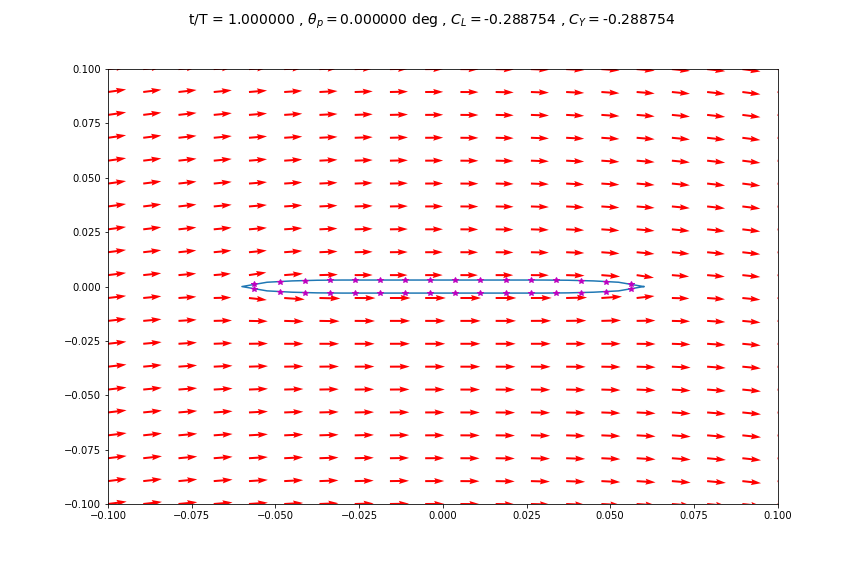
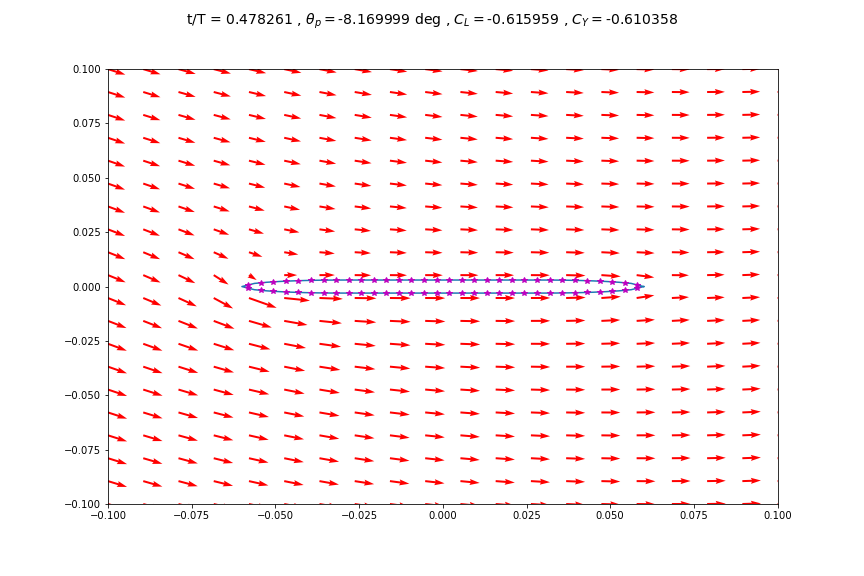
No real changes
see title

diff --git a/Unsteady Attached Flow plate.py b/Unsteady Attached Flow plate.py
@@ -17,7 +17,7 @@ chord=.12
 thickness=.006
 minRad=thickness/2
 majRad=chord/4
-numPanels=32
+numPanels=64
 xp=np.zeros((numPanels+1,1))
 yp=np.zeros((numPanels+1,1))
 
@@ -52,12 +52,12 @@ for i in range(numPanels):
     yc[i]=(yp[i]+yp[i+1])/2
 
 # time frames, panel positions, collocation positions, induced freestream velocities
-numFrames=12
+numFrames=24
 tEnd=.5
 tInterval=np.linspace(0,tEnd,numFrames)
 f=2
 omega=2*np.pi*f
-h0=.1
+h0=.0375
 theta0=60*np.pi/180
 h_t=h0*np.cos(omega*tInterval)
 h_t_dot=-h0*omega*np.sin(omega*tInterval)
@@ -158,11 +158,14 @@ CYBernSto=np.zeros((numFrames,1))
 xSto=np.zeros((numPanels+1,numFrames))
 momSto=np.zeros((numFrames,1))
 CPSto=np.zeros((numPanels//2,numFrames))
+AoASto=np.zeros((numFrames,1))
 
 # panel method for each snap shot in time interval
 for t in range(numFrames):     
     # induced velocity and AoA at collocation point
     AoA=theta_t[t]-np.arctan2(h_t_dot[t]-xc*theta_t_dot[t]*np.cos(theta_t[t]),Uinf+theta_t_dot[t]*xc*np.sin(theta_t[t]))#!!!!!!!!!!!!!!
+#    AoA=theta_t[t]+np.arctan2((Uinf+theta_t_dot[t]*xc*np.sin(theta_t[t]))*np.sin(theta_t[t])+(-h_t_dot[t]+theta_t_dot[t]*xc*np.cos(theta_t[t]))*np.cos(theta_t[t]),\
+#               (Uinf+theta_t_dot[t]*xc*np.sin(theta_t[t]))*np.cos(theta_t[t])+(-h_t_dot[t]+theta_t_dot[t]*xc*np.cos(theta_t[t]))*-np.sin(theta_t[t]))
     normU=Uinf*np.sin(AoA-theta)
     tangU=Uinf*np.cos(AoA-theta)
     
@@ -225,11 +228,20 @@ for t in range(numFrames):
     # save data
     tangVelSto[:,t]=tangVelFoil[:,0]
     ClKuttaSto[t]=Cl_kutta
-    CYKuttaSto[t]=Cl_kutta*np.cos(np.average(AoA))
+    CYKuttaSto[t]=CY_kutta
     ClBernSto[t]=Cl_bern
-    CYBernSto[t]=Cl_bern*np.cos(np.average(AoA))
+    CYBernSto[t]=CY_bern
     xSto[:,t]=x[:,0]
     momSto[t]=momentBern
     CPSto[:,t]=CP[:,1]
+    AoASto[t]=np.average(AoA)
 
-plt.plot(tInterval,CYKuttaSto)
+# plot pressure coefficient
+fig2=plt.figure(figsize=(12,8))
+fig2.add_subplot(111)
+plt.plot(tInterval/tInterval[-1],CYKuttaSto)
+plt.plot(tInterval/tInterval[-1],h_t/h0)
+plt.legend([r'$C_Y$',r'$h/h_0$'],loc='lower right',fontsize=14)
+plt.xlabel('t/T',fontsize=18)
+plt.ylabel(r'$C_Y$',fontsize=18)
+plt.savefig('quasi_steady.png')

diff --git a/symmetric joukowski.py b/symmetric joukowski.py
@@ -9,14 +9,14 @@ import matplotlib.pyplot as plt
 import copy
 
 # setup panel coordinates and control point coordinates
-AoA=5*np.pi/180
-Uinf=3
+AoA=10*np.pi/180
+Uinf=8.8
 rho=1.204
 chord=.12
 thickness=.006
 minRad=thickness/2
 majRad=chord/4
-numPanels=32
+numPanels=64
 panel_coor=np.zeros((numPanels+1,2))
 xp=np.zeros((numPanels+1,1))
 yp=np.zeros((numPanels+1,1))
@@ -155,7 +155,7 @@ for i in range(numPoints): # each row of points
     for j in range(numPoints): # each point in row
         xVelStream[i,j]=np.dot(AFieldx[i*numPoints+j,:],x)+Uinf*np.cos(AoA)
         yVelStream[i,j]=np.dot(AFieldy[i*numPoints+j,:],x)+Uinf*np.sin(AoA)
-
+        
 # plot velocity vectors
 fig1=plt.figure(figsize=(12,8))
 fig1.add_subplot(111)
@@ -164,15 +164,17 @@ plt.xlim(xLeft,xRight)
 plt.plot(xp,yp)
 plt.quiver(X,Y,xVelStream,yVelStream,color='r')
 plt.plot(xc,yc,'*',color='m')
-#plt.savefig('steady_plate_5_AoA_.png')
+plt.savefig('velocity_symmetric_joukowski_10_AoA_thickness_006.png')
 
 # plot pressure coefficient
 fig2=plt.figure(figsize=(12,8))
 fig2.add_subplot(111)
 plt.plot(xc[:numPanels//2+1],Cp[:numPanels//2+1])
 plt.plot(xc[numPanels//2:],Cp[numPanels//2:])
-plt.xlabel('chord',fontsize=14)
-plt.ylabel(r'$C_P$',fontsize=14)
+plt.legend(['bottom surface','top surface'],loc='lower right',fontsize=14)
+plt.xlabel('chord',fontsize=18)
+plt.ylabel(r'$C_P$',fontsize=18)
+plt.savefig('pressure_symmetric_joukowksi_10_AoA_thickness_006.png')
 
 print('C_L from kutta:',Cl_kutta)
 print('C_L from bernoulli:',Cl_bern)

diff --git a/steady flat plate.py b/steady flat plate.py
@@ -9,12 +9,12 @@ import matplotlib.pyplot as plt
 import copy
 
 # setup panel coordinates and control point coordinates
-AoA=5*np.pi/180
+AoA=10*np.pi/180
 Uinf=8.8
 rho=1.204
 chord=.12
 span=chord*2
-thickness=.001
+thickness=.006
 minRad=thickness/2
 majRad=chord/4
 numPanels=64
@@ -123,13 +123,13 @@ lift_bern=np.sum(yForceDist)
 Cl_bern=2*lift_bern/(rho*Uinf**2*chord)
 
 # moment about pitching axis from Bernoulli
-momentBern=np.sum(yForceDist*np.cos(AoA)*xc)
+momentBern=np.sum(yForceDist*np.cos(AoA)*-xc)
 
 # coefficient of pressure over chord, 1st column collocation point, 2nd column Cp
 Cp=dP/(1/2*rho*Uinf**2)
 
 # calculate velocities in the flow field
-numPoints=20
+numPoints=30
 xLeft=-.1
 xRight=.1
 yLower=-.1
@@ -181,15 +181,17 @@ plt.xlim(xLeft,xRight)
 plt.plot(xp,yp)
 plt.quiver(X,Y,xVelStream,yVelStream,color='r')
 plt.plot(xc,yc,'*',color='m')
-#plt.savefig('steady_plate_5_AoA_.png')
+plt.savefig('velocity_steady_plate_5_AoA_thickness_006.png')
 
 # plot pressure coefficient
 fig2=plt.figure(figsize=(12,8))
 fig2.add_subplot(111)
 plt.plot(xc[:numPanels//2+1],Cp[:numPanels//2+1])
 plt.plot(xc[numPanels//2:],Cp[numPanels//2:])
-plt.xlabel('chord',fontsize=14)
-plt.ylabel(r'$C_P$',fontsize=14)
+plt.legend(['bottom surface','top surface'],loc='lower right')
+plt.xlabel('chord',fontsize=18)
+plt.ylabel(r'$C_P$',fontsize=18)
+plt.savefig('pressure_steady_plate_5_AoA_thickness_006.png')
 
 print('C_L from kutta:',Cl_kutta)
 print('C_L from bernoulli:',Cl_bern)
